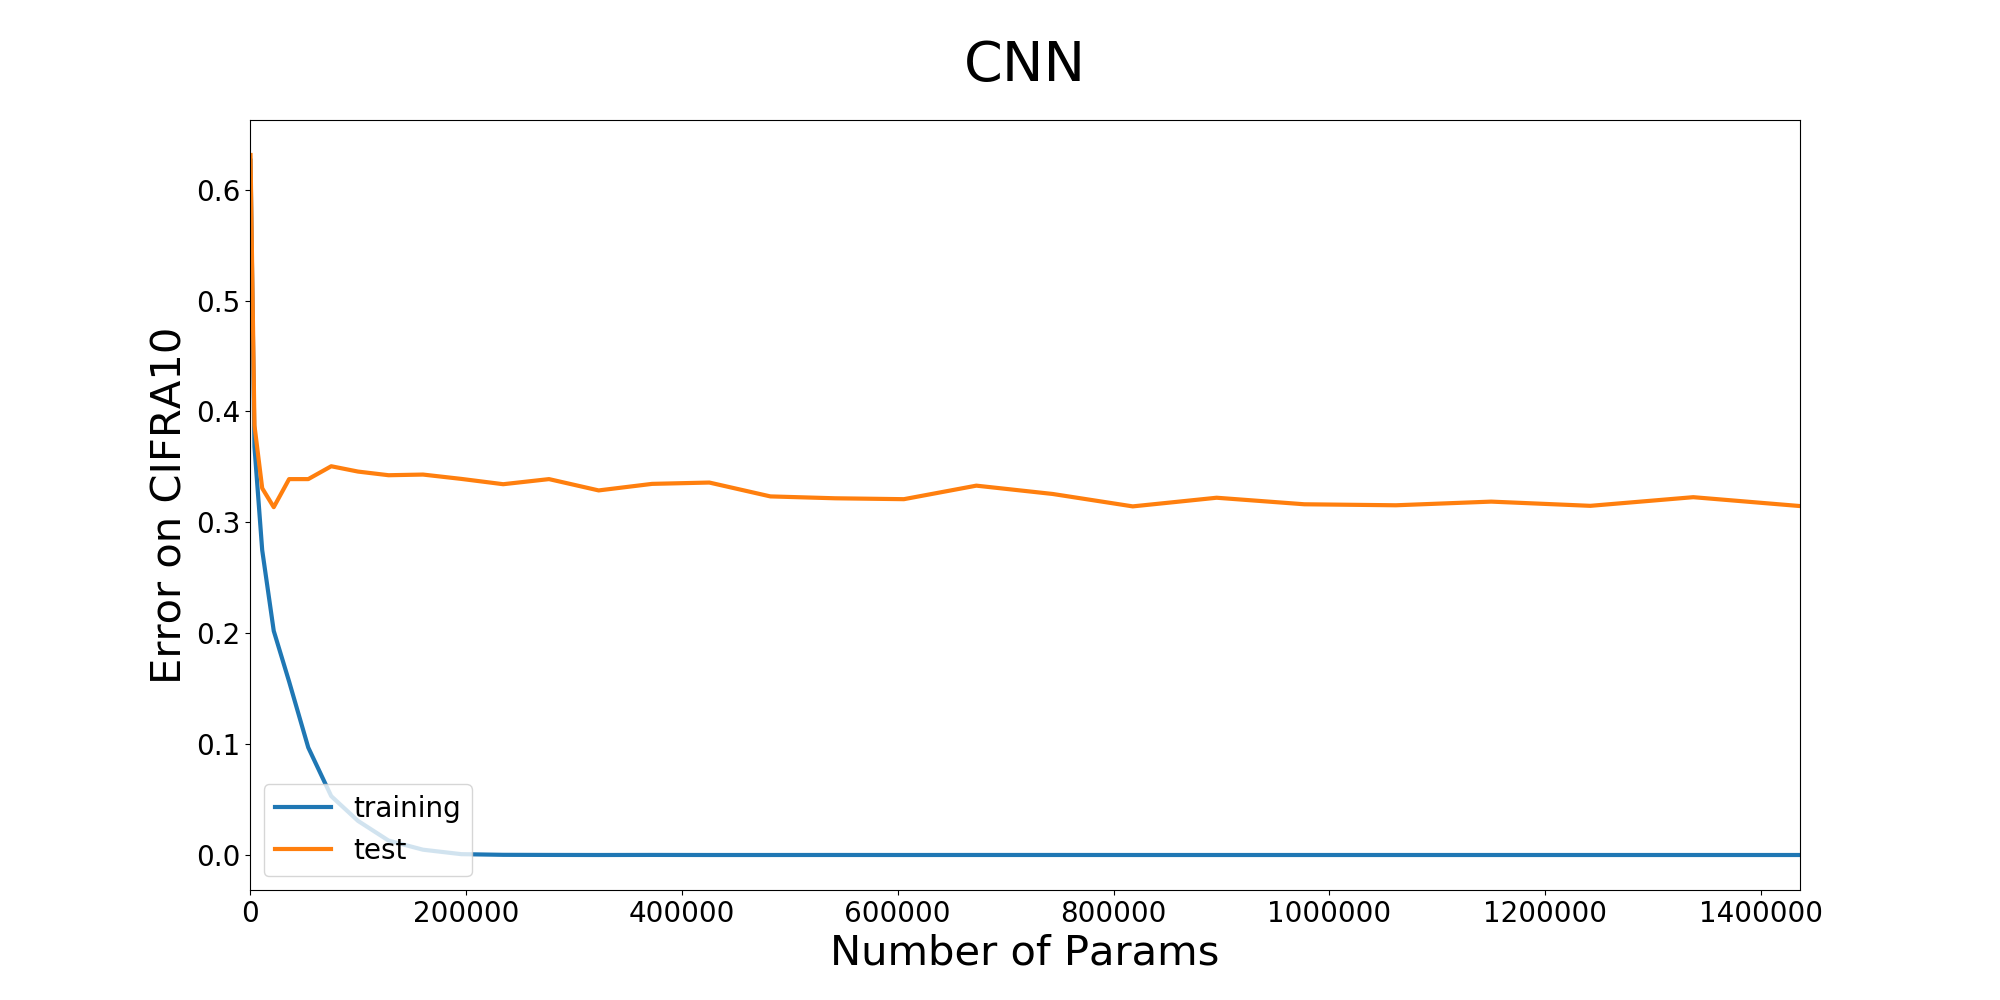
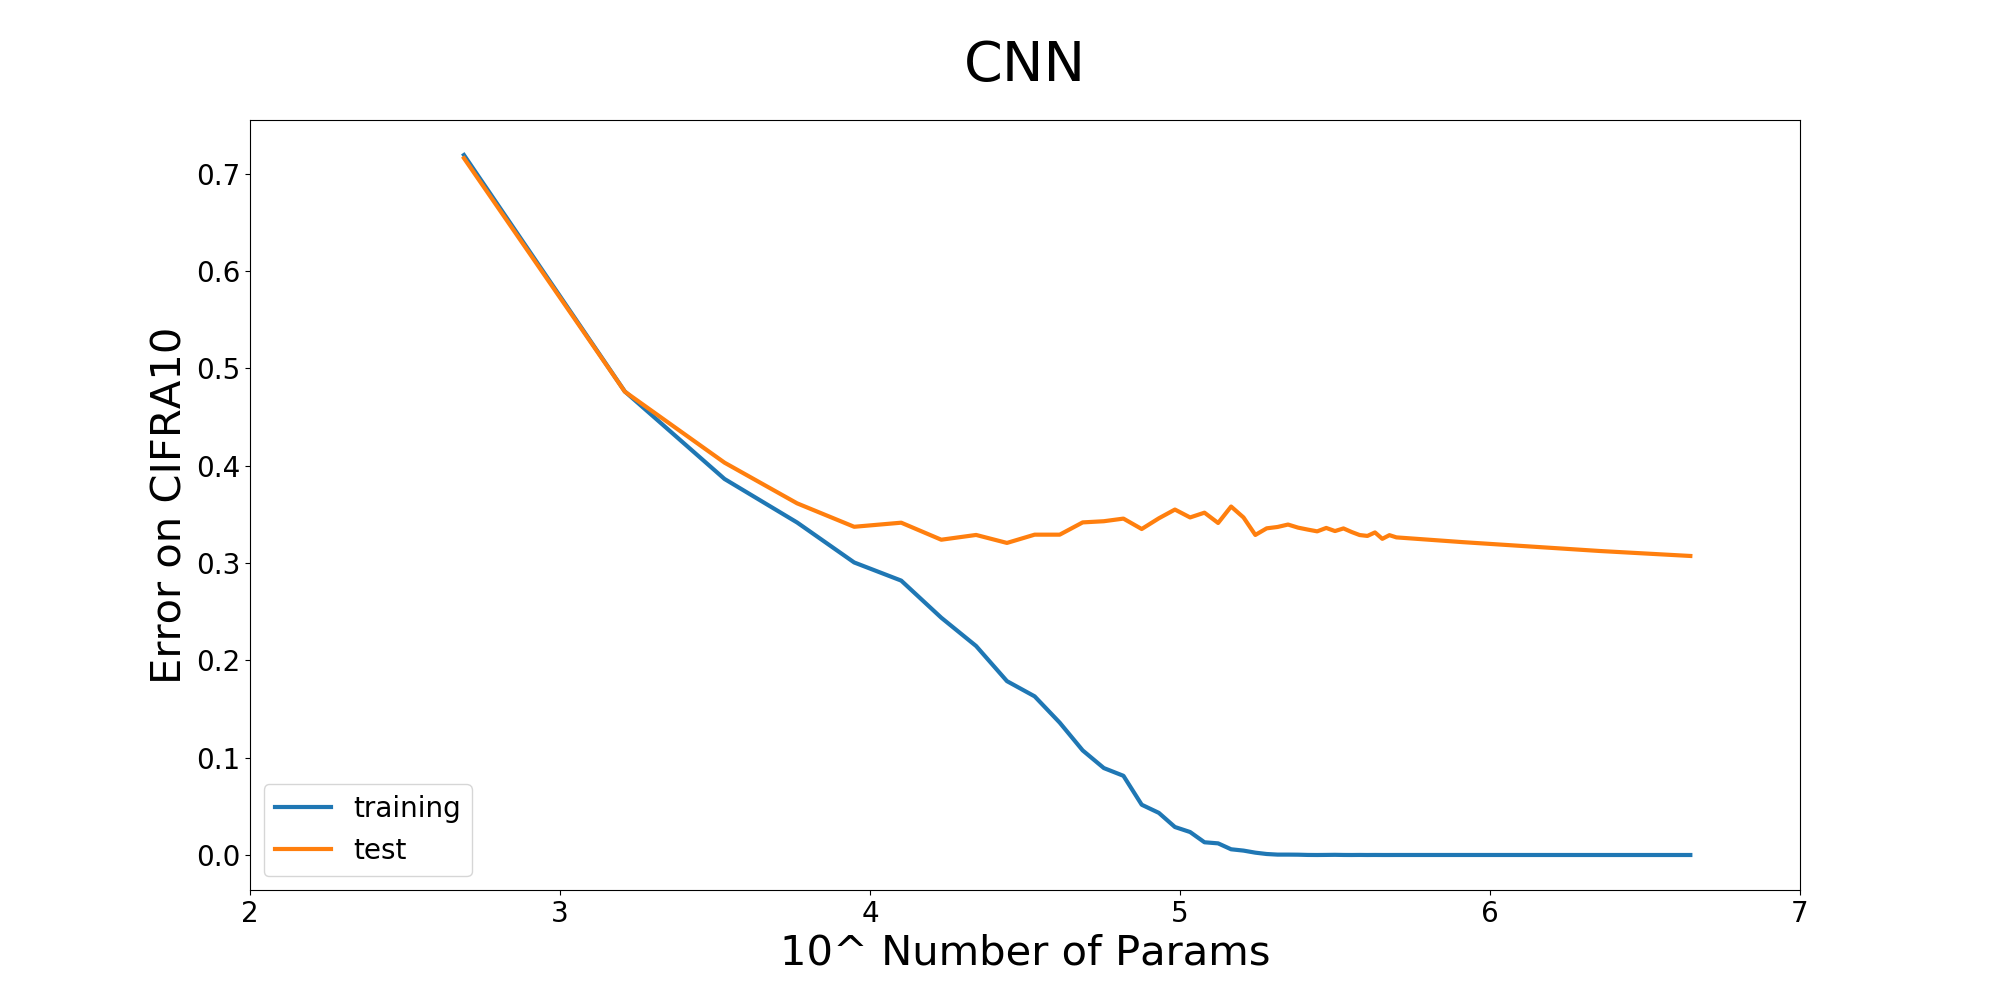
add

diff --git a/over-param2.py b/over-param2.py
@@ -18,7 +18,7 @@ from models import basic_cnn
 from utils import AverageMeter, accuracy, Logger
 
 os.environ["CUDA_DEVICE_ORDER"] = "PCI_BUS_ID"
-os.environ["CUDA_VISIBLE_DEVICES"] = "3"
+os.environ["CUDA_VISIBLE_DEVICES"] = "2"
 
 use_gpu = torch.cuda.is_available()
 
@@ -128,7 +128,7 @@ log = {'num_params': [],
        'test_loss': [],
        'test_error': []}
 
-for channels in range(3, 200, 7):
+for channels in list(range(3,120,3))+list(range(150,450,100)):
     print('Now at {}.............'.format(channels))
     model = basic_cnn.CNN(channels)
 
@@ -158,14 +158,14 @@ def plot(title):
     fig1, ax1 = get_fig(1)
     fig2, ax2 = get_fig(2)
 
-    ax1.plot(log['num_params'], log['train_loss'], linewidth=3, label='training')
-    ax1.plot(log['num_params'], log['test_loss'], linewidth=3, label='test')
-    ax2.plot(log['num_params'], log['train_error'], linewidth=3, label='training')
-    ax2.plot(log['num_params'], log['test_error'], linewidth=3, label='test')
+    ax1.plot(np.log10(log['num_params']), log['train_loss'], linewidth=3, label='training')
+    ax1.plot(np.log10(log['num_params']), log['test_loss'], linewidth=3, label='test')
+    ax2.plot(np.log10(log['num_params']), log['train_error'], linewidth=3, label='training')
+    ax2.plot(np.log10(log['num_params']), log['test_error'], linewidth=3, label='test')
 
     for ax in [ax1, ax2]:
-        ax.set_xlim(0, log['num_params'][-1])
-        ax.set_xlabel('Number of Params', fontdict=fontdict)
+        ax.set_xlim(2, 7)
+        ax.set_xlabel('10^ Number of Params', fontdict=fontdict)
         ax.legend(loc='lower left', fontsize=20)
 
     ax1.set_ylabel('Loss on CIFAR10', fontdict=fontdict)
